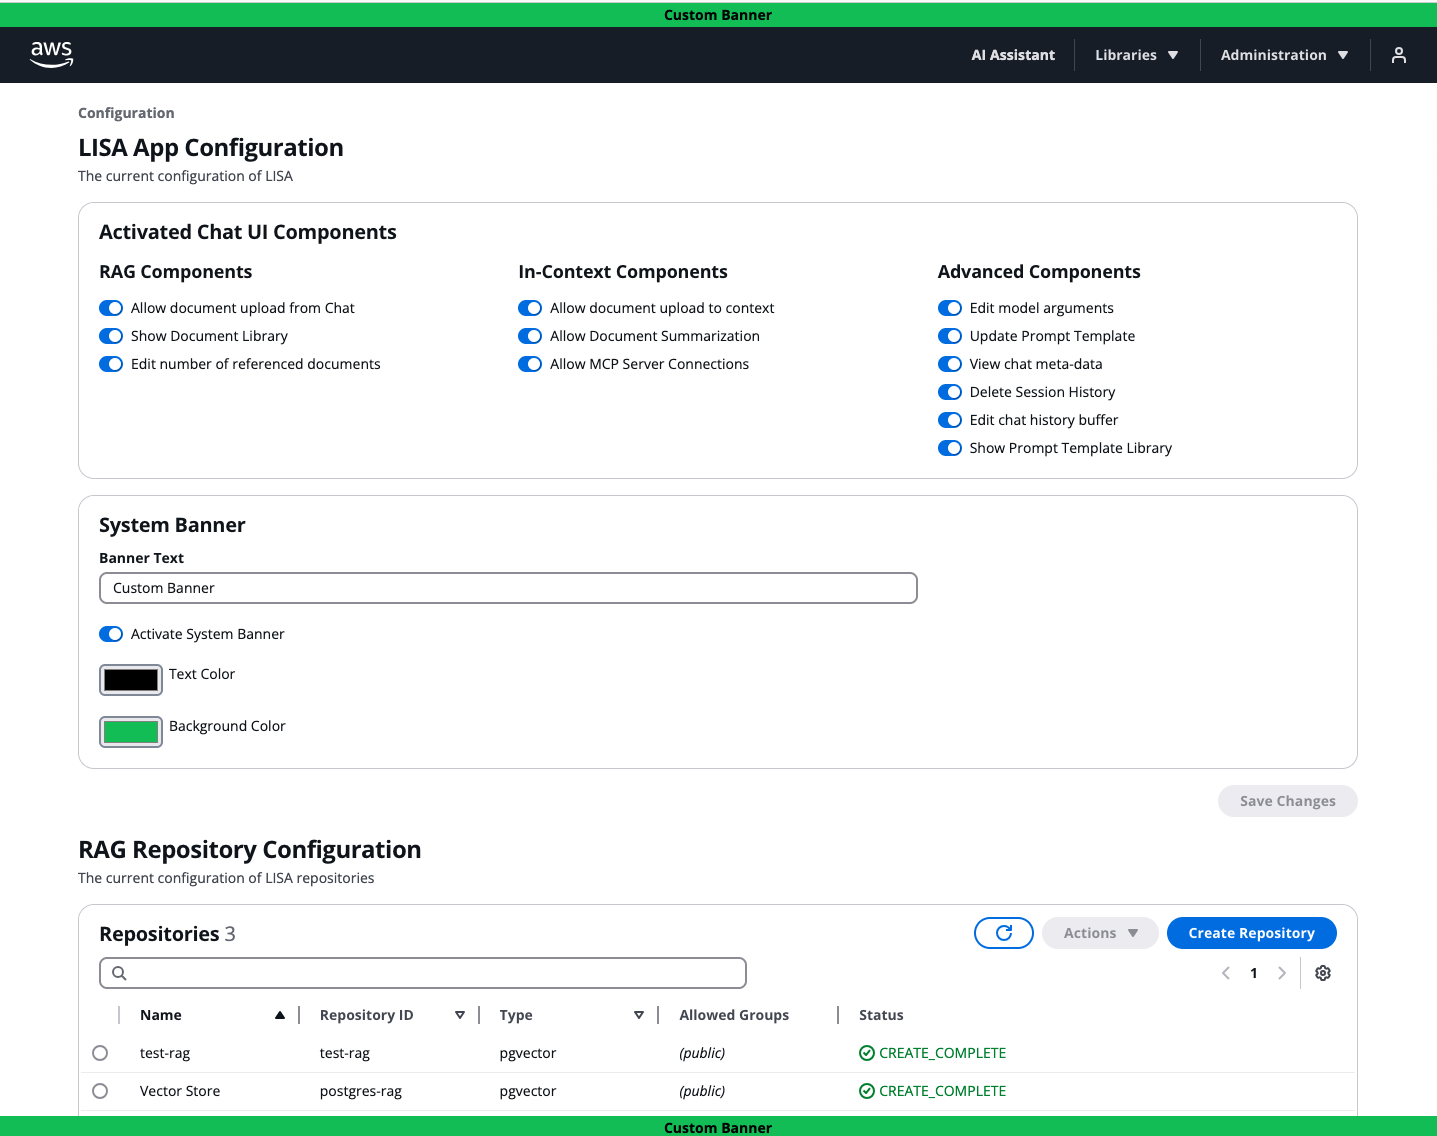
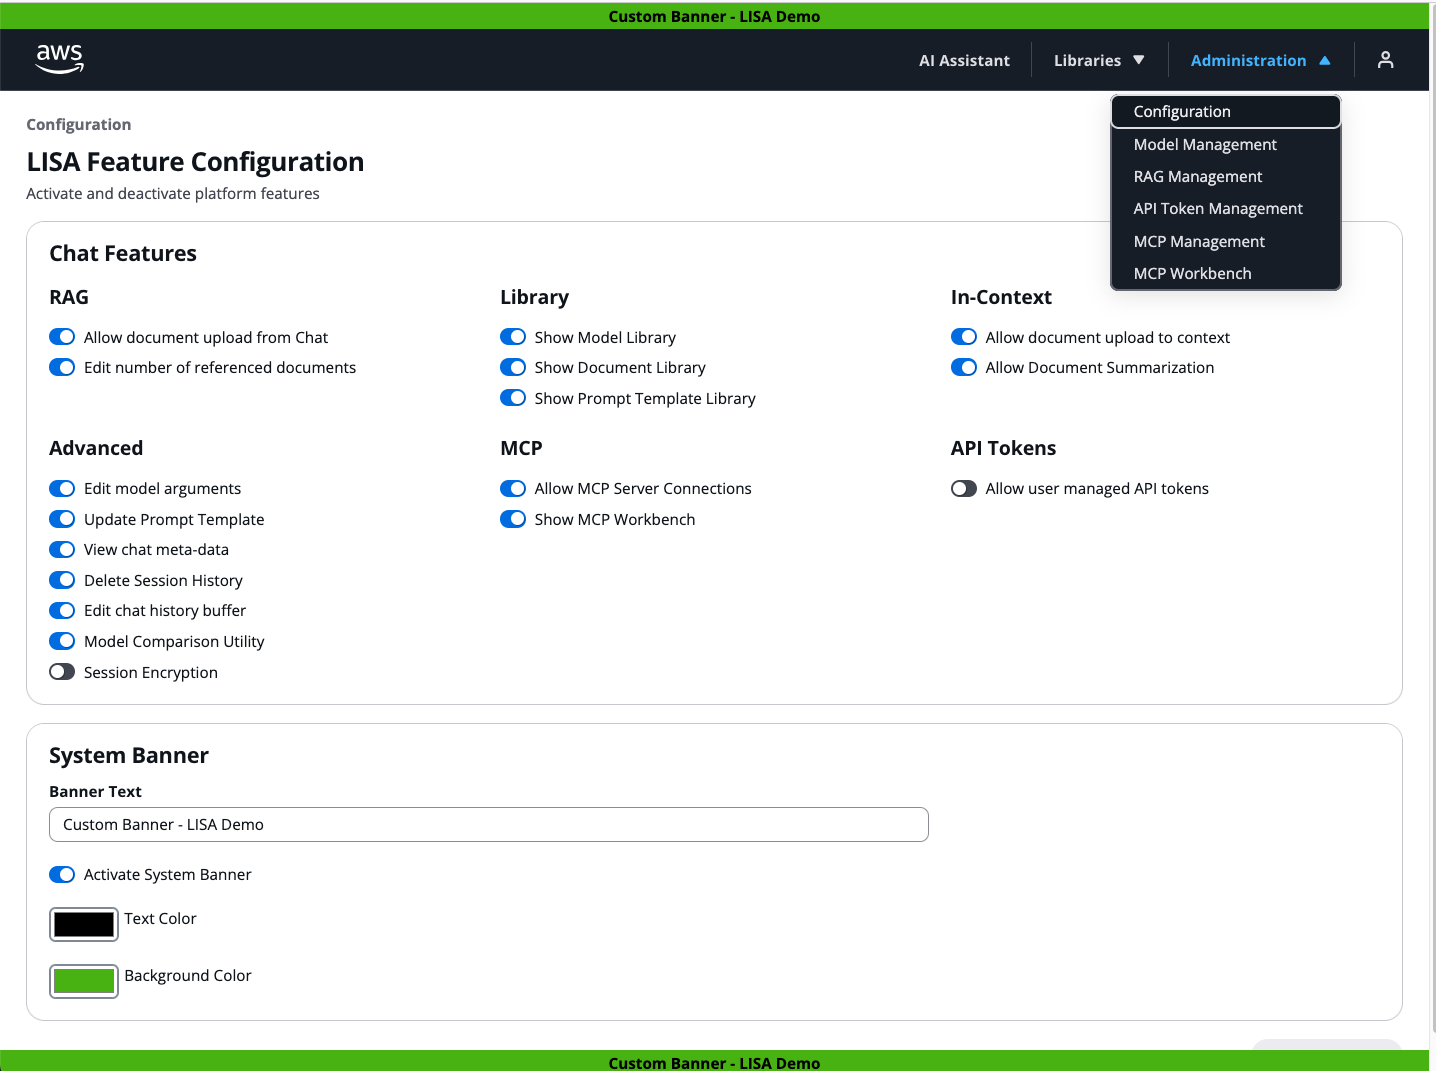
documentation updates

diff --git a/lib/docs/admin/getting-started.md b/lib/docs/admin/getting-started.md
@@ -1,19 +1,18 @@
 # What is LISA?
 
 The large language model (LLM) inference solution for Amazon Dedicated Cloud (ADC), [LISA](https://github.com/awslabs/LISA),
-is an open-source, infrastructure-as-code solution. Customers deploy LISA directly into an Amazon Web Services (AWS)
+is an open-source, infrastructure-as-code product. Customers deploy it directly into an Amazon Web Services (AWS)
 account. While LISA is specially designed for ADC regions that support government customers' most sensitive workloads,
-it is also compatible with commercial regions. LISA compliments [Amazon Bedrock](https://aws.amazon.com/bedrock/) by
-supporting built-in configuration with Amazon Bedrock's models and by offering additional capabilities out of the box:
-a chat user interface (UI) with configurable features, authentication, centralized model orchestration, broad model
-flexibility, and [model context protocol (MCP)](https://modelcontextprotocol.io/introduction) support. LISA is scalable
-and ready to support production use cases. LISA's roadmap is customer driven, with capabilities launching monthly.
-Reach-out to the LISA product team with questions or feature requests via your AWS Account team or GitHub Issues.
+it is also compatible in any region. LISA is scalable and ready to support production use cases.
+
+
+LISA accelerates GenAI adoption by offering built-in configurability with [Amazon Bedrock](https://aws.amazon.com/bedrock/) models, Knowledge Bases, and Guardrails. LISA also offers advanced capabilities like an optional enterprise-ready chat user interface (UI) with configurable features, authentication, resource access control, centralized model orchestration via LiteLLM, model self-hosting via Amazon ECS, retrieval augmented generation (RAG), APIs, and broad model context protocol (MCP) support and features. LISA is also compatible with OpenAI’s API specification making it easily configurable with supporting solutions. For example, the Continue plugin for VSCode and JetBrains integrated development environments (IDE).
+
+LISA's roadmap is customer-driven, with new capabilities launching monthly. Reach out to the product team to ask questions, provide feedback, and send feature requests via the "Contact Us" button above.
 
 # Major Features
 
-LISA has four main components: serve, chat user interface, retrieval augmented generation (RAG), and APIs.
-These capabilities support the following major features.
+LISA has four modular components: serve, chat user interface, RAG, and MCP. Major features include:
 
 **Model Flexibility & Orchestration**
 
@@ -45,12 +44,9 @@ generation capabilities. Lastly, the chat UI supports integration with an OIDC i
 
 **Model Context Protocol (MCP)**
 
-LISA supports MCP, a popular open standard that enables developers to securely connect AI assistants to systems where
-data lives. Customers can connect MCP servers with LISA and use the tools hosted on that server. For example, if an MCP
-server is added to LISA that supports email/calendar actions then LISA customers can prompt for supported tasks. In this
-case, customers could request help sending calendar invites on their behalf to specific colleagues based on everyone’s
-availability. The LLM would automatically engage the appropriate MCP server tools and perform the necessary steps to
-complete the task.
+LISA MCP features offer customers flexibility with their agentic workloads. MCP is a popular open standard that enables developers to securely connect AI assistants to systems where data lives. First, customers can configure third party MCP servers with LISA via the MCP Connections feature. Next, Administrators can use LISA Workbench's Python editor to create, test, and deploy custom tools through LISA's hosted MCP server. This is great for rapid prototyping and deployment of custom functionality.
+
+Lastly, LISA MCP is a new stand-alone solution under the LISA umbrella. It can be deployed on its own, or alongside LISA Serve. LISA MCP extends LISA's existing MCP capabilities by offering self-hosting. Customers deploy, self-host, and manage MCP servers in enterprise-grade, scalable infrastructure. Administrators can quickly deploy STDIO, HTTP or SSE MCP servers through a single API call, or intuitive UI workflow. LISA MCP offers automatic scaling policies and secure VPC networking. This ensures traffic never leaves customers’ private network boundaries. LISA MCP supports dynamic container management by allowing customers to bring pre-built container images, or point to Amazon S3 artifacts that are automatically packaged into containers at deployment time. All hosted MCP servers benefit from security controls through API Gateway integration, including authentication, authorization, API keys, IDP lockdown, and JWT group enforcement. Administrative control on each server includes group-based access control, lifecycle automation through Step Functions, and built-in health monitoring at both container and load balancer levels. External integration with LISA MCP hosted servers allows access by agents, copilots, RPA bots, or SaaS workloads using the same secure endpoints.
 
 **Retrieval Augmented Generation (RAG)**
 
@@ -79,12 +75,12 @@ centralized programmatic API and authenticate using temporary or long-lived API 
 # Key Features & Benefits
 
 * Open source with no subscription or licensing fees. Costs are based on service usage.
-* Customer driven roadmap with ongoing releases. LISA Is backed by a software development team.
+* Customer driven roadmap with ongoing releases. LISA is backed by a software development team.
 * Maximum built-in model flexibility through self-hosting and LiteLLM compatibility, making LISA a two-way door decision.
 * Centralized and standardized model orchestration. LISA is LiteLLM compatible allowing easy configuration with 100+
 models hosted by external providers, like Amazon Bedrock. LISA standardizes the unique API calls into the OpenAI format
 automatically. All that is required is an API key, model name, and API endpoint.
-* Compliments Amazon Bedrock by supporting its models, and by offering added capabilities out of the box. This includes
+* Complements Amazon Bedrock by supporting its models, and by offering added capabilities out of the box. This includes
 a production quality chat user interface with configurable features and authentication, a chat session API,
 built in model orchestration, added model flexibility, and model context protocol support.
 * Accelerates GenAI adoption with secure, scalable, production ready software. LISA’s modular components and APIs offer
@@ -92,70 +88,11 @@ flexibility for different use cases.
 * Leverages AWS services that are FedRAMP High compliant.
 
 
-*The below screenshot showcases LISA’s optional chat assistant user interface. On the left is the user’s Chat History.
-In the center, the user can start a new chat session and prompt a model. Up top, the user can select from three
-libraries: Document, Prompt, and MCP Connections. As an Administrator, this user also can access the Administration
-menu. Here they configure application features and manage available models.* *See the next screenshot for more details.*
+*The below screenshot showcases LISA’s optional chat assistant user interface. On the left is the user’s Chat History. In the center, the user can start a new chat session and prompt a model. Up top, the user can select from four libraries: Model, Document, Prompt, and MCP Connections. As an Administrator, this user also can access the Administration menu. Here they configure application features and manage available models. See the next screenshot for more details.* *See the next screenshot for more details.*
 ![LISA UI](../assets/LISA_UI.png)
 
-*The below screenshot showcases LISA’s application configuration page. Here Administrators manage application features.
-They can set up vector stores and automatic document ingestion pipelines to support RAG.*
+*The below screenshot showcases LISA’s application feature configuration page. There are also separate configuration pages where Administrators manage RAG repos and collections, document ingestion pipelines, MCP servers, models, and API tokens.*
 ![LISA Config](../assets/LISA_Config.png)
 
-*The below screenshot showcases LISA’s Model Management page. It is filtered to display the Amazon Nova models
-configured with LISA, although they are hosted by the Amazon Bedrock service. Via LISA’s Model Management page,
-Administrators configure self-hosted and externally hosted third party (3P) models with LISA. LISA is compatible with
-over 100 externally hosted models via the LiteLLM proxy. Administrators do not need to worry about the 3P model
-provider’s unique API requirements since LiteLLM handles the standardization.*
+*The below screenshot showcases LISA’s Model Management page. It is filtered to display the Claude models configured with LISA, although they are hosted by the Amazon Bedrock service. Via LISA’s Model Management page, Administrators configure self-hosted and externally hosted third party (3P) models with LISA. LISA is compatible with over 100 externally hosted models via the LiteLLM proxy. Administrators do not need to worry about the 3P model provider’s unique API requirements since LiteLLM handles the standardization.*
 ![LISA Model Management](../assets/LISA_Model_Mgmt.png)
-
-# Access Control
-
-LISA Roles and Enterprise Groups control access to features and resources.
-
-## Roles
-
-`AdminGroup` and `UserGroup` properties in the configuration are used to control tiers of application access, not resource access.
-
-- **AdminGroup**: The IDP group that distinguishes which users have access to create and manage restricted resource configuration within the UI, including:
-  - Activating application features
-  - Configuring models via Model Management
-  - Configuring repos and Collections via RAG management
-  - MCP server management
-  - MCP Workbench code editor
-
-- **UserGroup** (optional): If provided, this is required when the IDP is used for multiple systems and you want to control which users in the IDP have access to LISA.
-
-- **API Management** (v6.1+): A new role that allows users to manage their API tokens within LISA, but does not grant full Admin privileges.
-
-## Groups
-
-Access to resources can be constrained by Enterprise Groups, including:
-
-- LISA models
-- Prompt templates
-- RAG repos
-- RAG collections
-- MCP Connections
-- LISA MCP servers
-- API tokens
-
-You can create or bring any number of Enterprise Groups in your IDP, which can then be used in LISA to lock down resources at creation/update. When you create/update any resource, you can assign 0, 1, or many Groups to that resource.
-
-### Example: Group-Based Access Control
-
-For example, let's say your IDP has the following groups: **Team Red**, **Team White**, and **Team Blue**. Below shows how you can use Groups to lock down access to Models, and then RAG repos and their Collections:
-
-**Models:**
-- Model 1: Teams Red and White
-- Model 2: none (Global)
-- Model 3: Team Blue
-
-**RAG Repositories and Collections:**
-- RAG Repo 1: Teams Red, White, Blue
-  - Collection A: Team Red
-  - Collection B: Team White
-  - Collection C: Teams White and Blue
-- RAG Repo 2: none (Global)
-  - Collection X: Team Blue
-  - Collection Y: none (Global)
